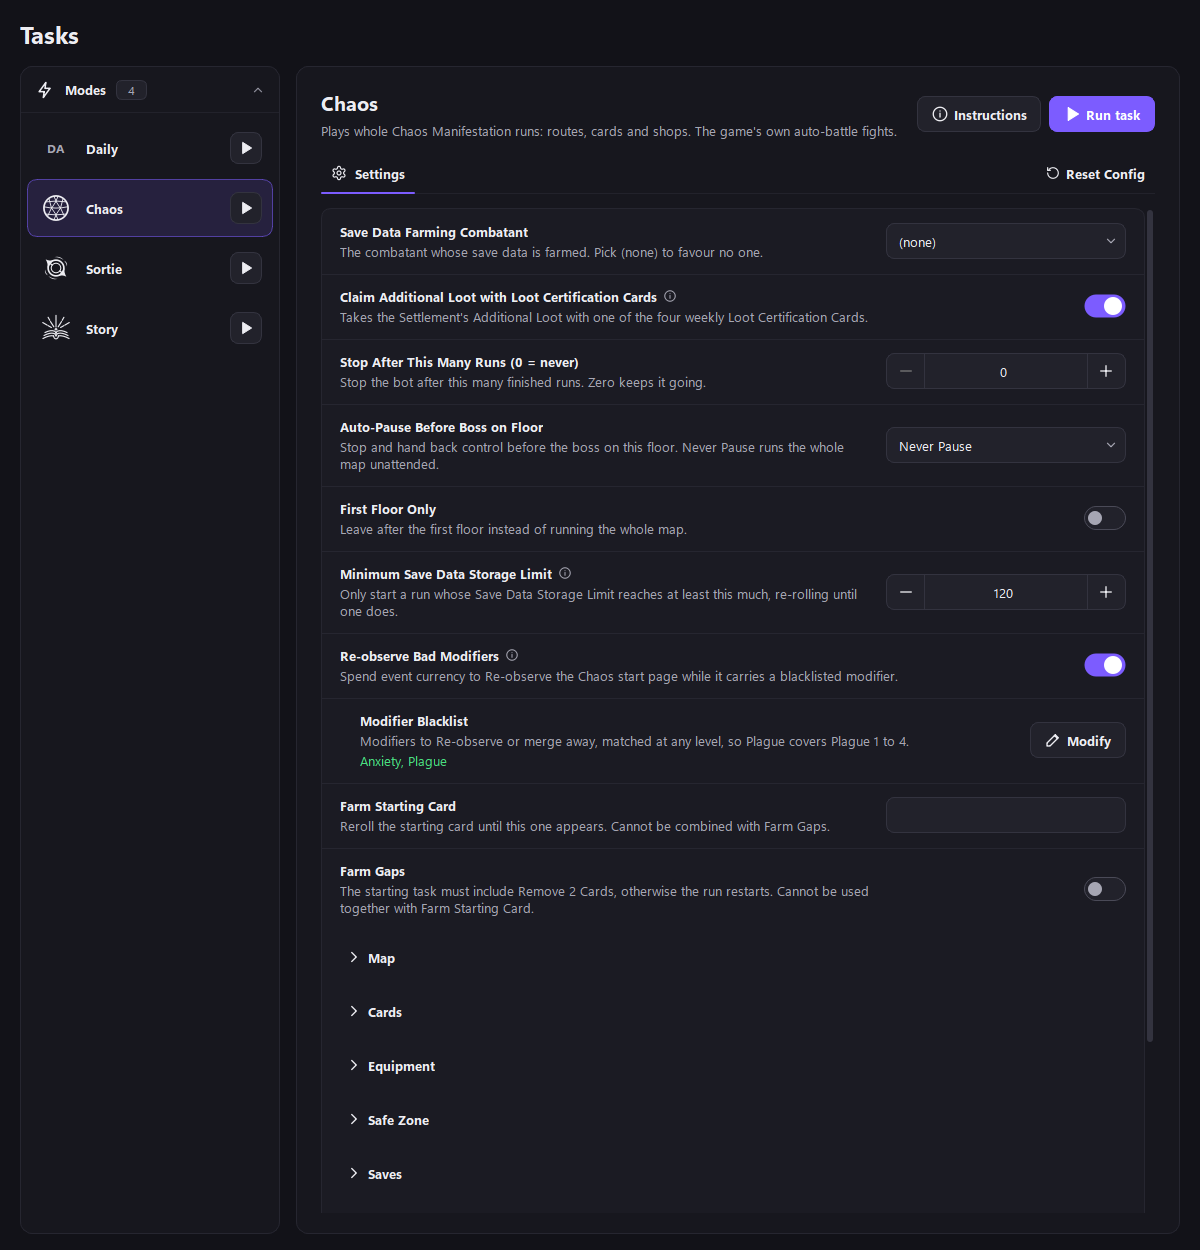
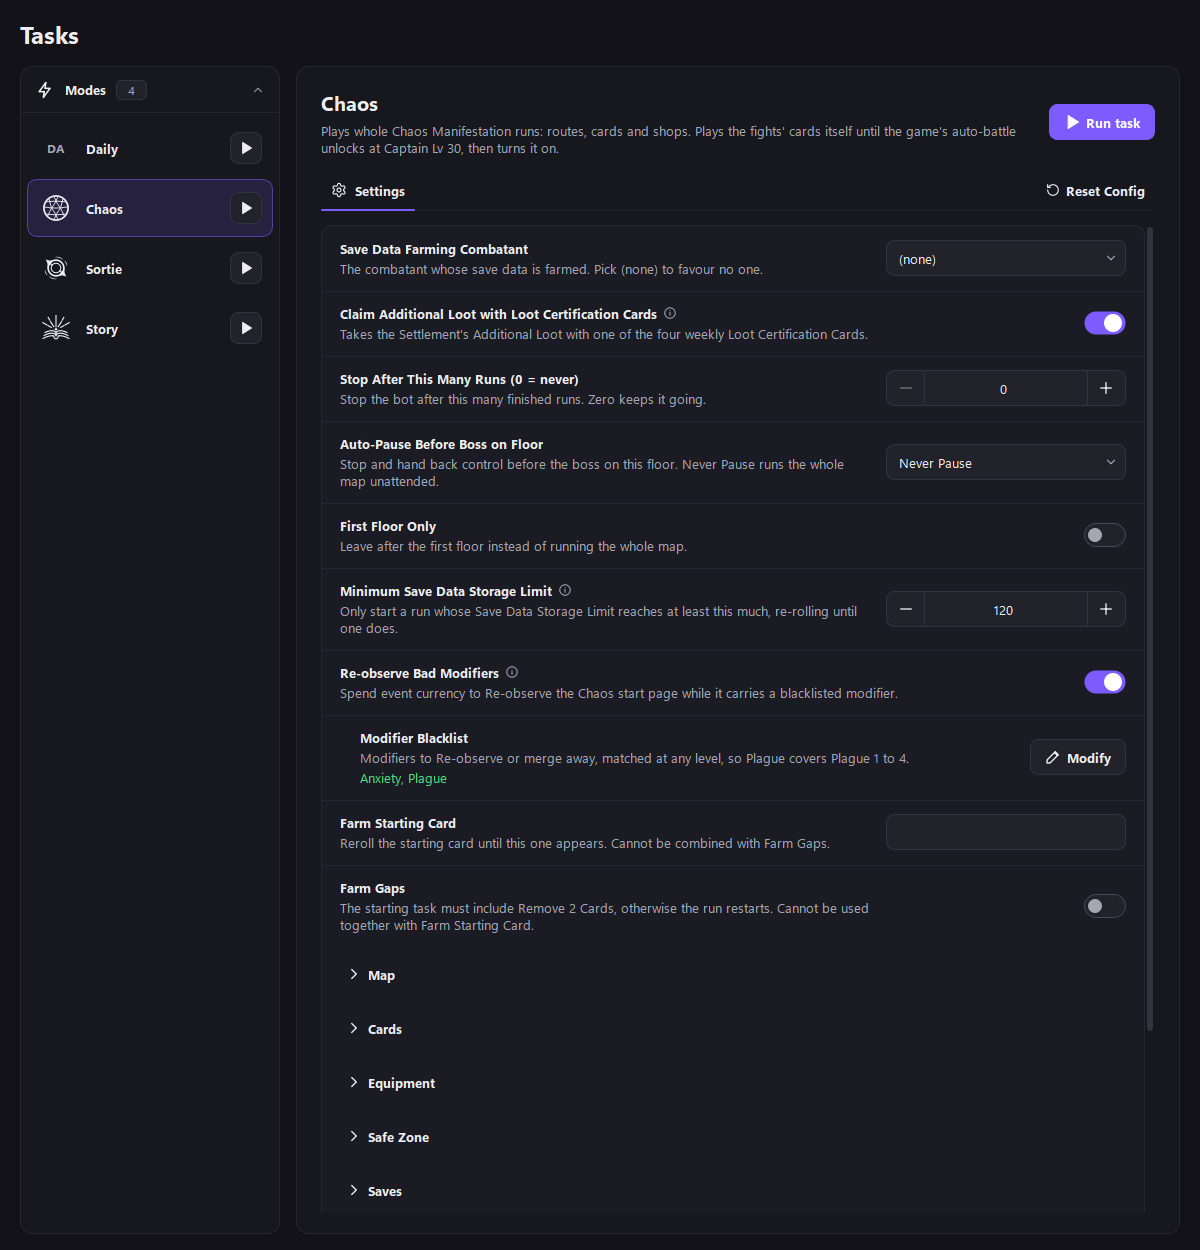
make the app's mode descriptions and instructions match what the bot does

diff --git a/src/en/daily.py b/src/en/daily.py
@@ -8,7 +8,8 @@ A screen Daily does not know for 30 seconds, and the tutorial, stop it with noth
 The park spends only its own profit, a free counter that refills while the player is away. Its rows are read by
 `dream_park`, and one is pressed only when its price reads as a plain park number. When the ride it wants is further
 down, the list is dragged a short way, a few times a visit at most. Once a visit, the panel's Skill tab gets AI Automation
-upgraded while one level pays for itself by the next visit, and no other skill is ever pressed.
+upgraded while one level pays for itself by the next visit, then Another Happy Day while Happiness lags, and no other
+skill is ever pressed.
 
 Imported by ok-script before `ok_tasks/` is on `sys.path`, so upstream is reached only through `handlers.loaded`.
 """
@@ -1421,8 +1422,8 @@ class DailyMode(TriggerTask):
         super().__init__(*args, **kwargs)
         self.name = "Daily"
         self.description = ("Start on the Lobby. Closes the entry popups, claims the daily attendance reward and all mail, then visits Nightmare "
-                            "Dream Park while it runs: ranks it up, builds and upgrades rides and its AI Automation skill with the park's "
-                            "own profit and claims its achievements. "
+                            "Dream Park while it runs: ranks it up, builds and upgrades rides, buys its AI Automation and Another Happy Day "
+                            "skills with the park's own profit and claims its achievements. "
                             "Stops on the Lobby. Presses nothing else.")
         self.trigger_interval = 1
         self.all_texts = []

diff --git a/src/en/overrides.py b/src/en/overrides.py
@@ -111,8 +111,8 @@ DESCRIPTIONS = {
     "卡牌奖励优先级": "Preferred cards when a reward offers a choice.",
     "获得卡牌优先级": "Preferred cards when the run offers a card to obtain.",
     "丢弃卡牌优先级": "Cards to throw away first when the run asks you to discard.",
-    PLAYS_ITS_OWN_CARDS: "Order to play cards in battle. Needs shortcut key display turned on in the game's"
-                         " settings.",
+    PLAYS_ITS_OWN_CARDS: "Order to play cards in battle. Needs Show Keybinds turned on in the game's Settings,"
+                         " Keybinds tab.",
     DESIRE_FACTION: "Which Desire faction to build towards. Every Desire card and event option pushes this one higher.",
     SMART_CARD_PLAY: "Choose battle cards by cost, type and effect text instead of pressing every hotkey in turn.",
     "装备1号位优先级": "Preferred equipment for the first slot, best first.",
@@ -181,7 +181,7 @@ TOOLTIPS = {
               " the run rests.",
 }
 # Setup a mode needs before its first run, shown behind its Instructions button. A mode with nothing to set up gets no button.
-INSTRUCTIONS = {"ChaosMode": "Turn on the event/dialogue Fast Forward in-game before starting a run."}
+INSTRUCTIONS = {}
 
 _applied = False
 

diff --git a/src/en/notify.py b/src/en/notify.py
@@ -141,7 +141,8 @@ def lobby_stop(utils):
 
     Returns:
         A factory taking `handle_non_battle_page` as installed and returning the handler to run in its place. It stops
-        exactly when upstream's does, and only adds the notice; the Rescue and Ark City stops and Story's stop stay silent.
+        exactly when upstream's does, and only adds the notice; the Ark City stop and Story's stop stay silent, and
+        Rescue is announced by `spend_guard`, which stops ahead of this.
     """
     def factory(original):
         def handle_non_battle_page(task):

diff --git a/scripts/render_readme_images.py b/scripts/render_readme_images.py
@@ -98,6 +98,10 @@ def build_modes(executor):
     modes = []
     for mode_class in (DailyMode, ChaosMode, SortieMode, StoryMode):
         mode = mode_class(executor, None)
+        # The task manager marks what it loads out of `ok_tasks/` before `load_config`, and `overrides` replaces
+        # only those modes' Instructions. `shell.restructure` clears the mark again, as in the app.
+        if mode_class is not DailyMode:
+            mode.is_custom = True
         mode.load_config()
         modes.append(mode)
     return modes

diff --git a/CHANGELOG.md b/CHANGELOG.md
@@ -74,7 +74,7 @@ A new Daily task with a Nightmare Dream Park visit, Story plays Battle Missions 
 ### What you need to do
 
 - **App and settings:** set Game Language to the language your game shows. Chaos, Sortie and Story now stop at the start with a message naming the value to set when it does not match.
-- **Chaos Manifestation:** you no longer need the game's auto-battle on before Captain Lv 30, where it unlocks. Keep shortcut key display and auto-story on in the game's settings.
+- **Chaos Manifestation:** you no longer need the game's auto-battle on before Captain Lv 30, where it unlocks. Keep **Show Keybinds** on in the game's Settings, Keybinds tab.
 
 ### New
 
